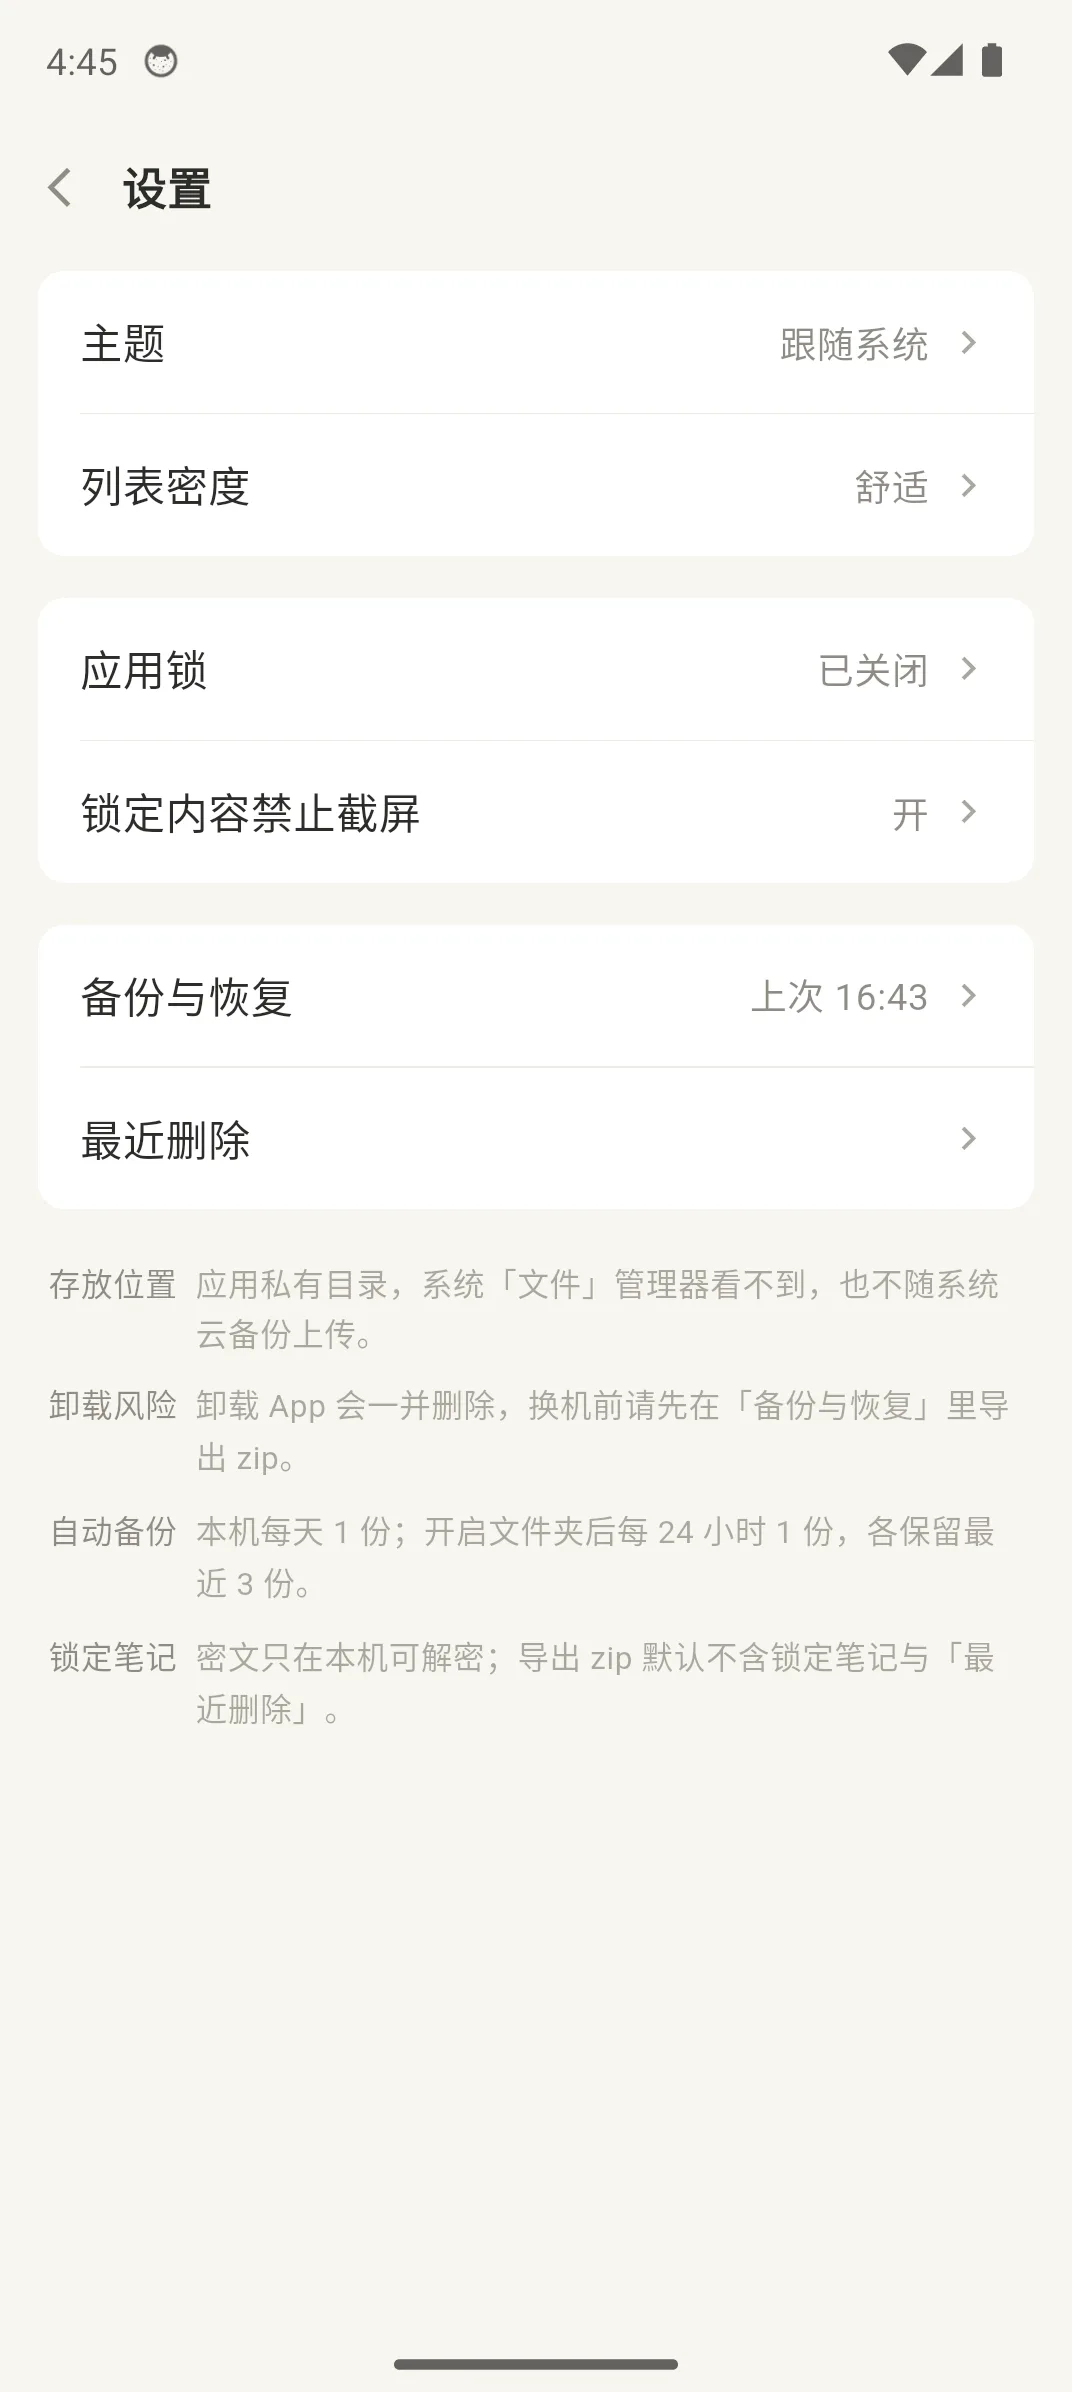
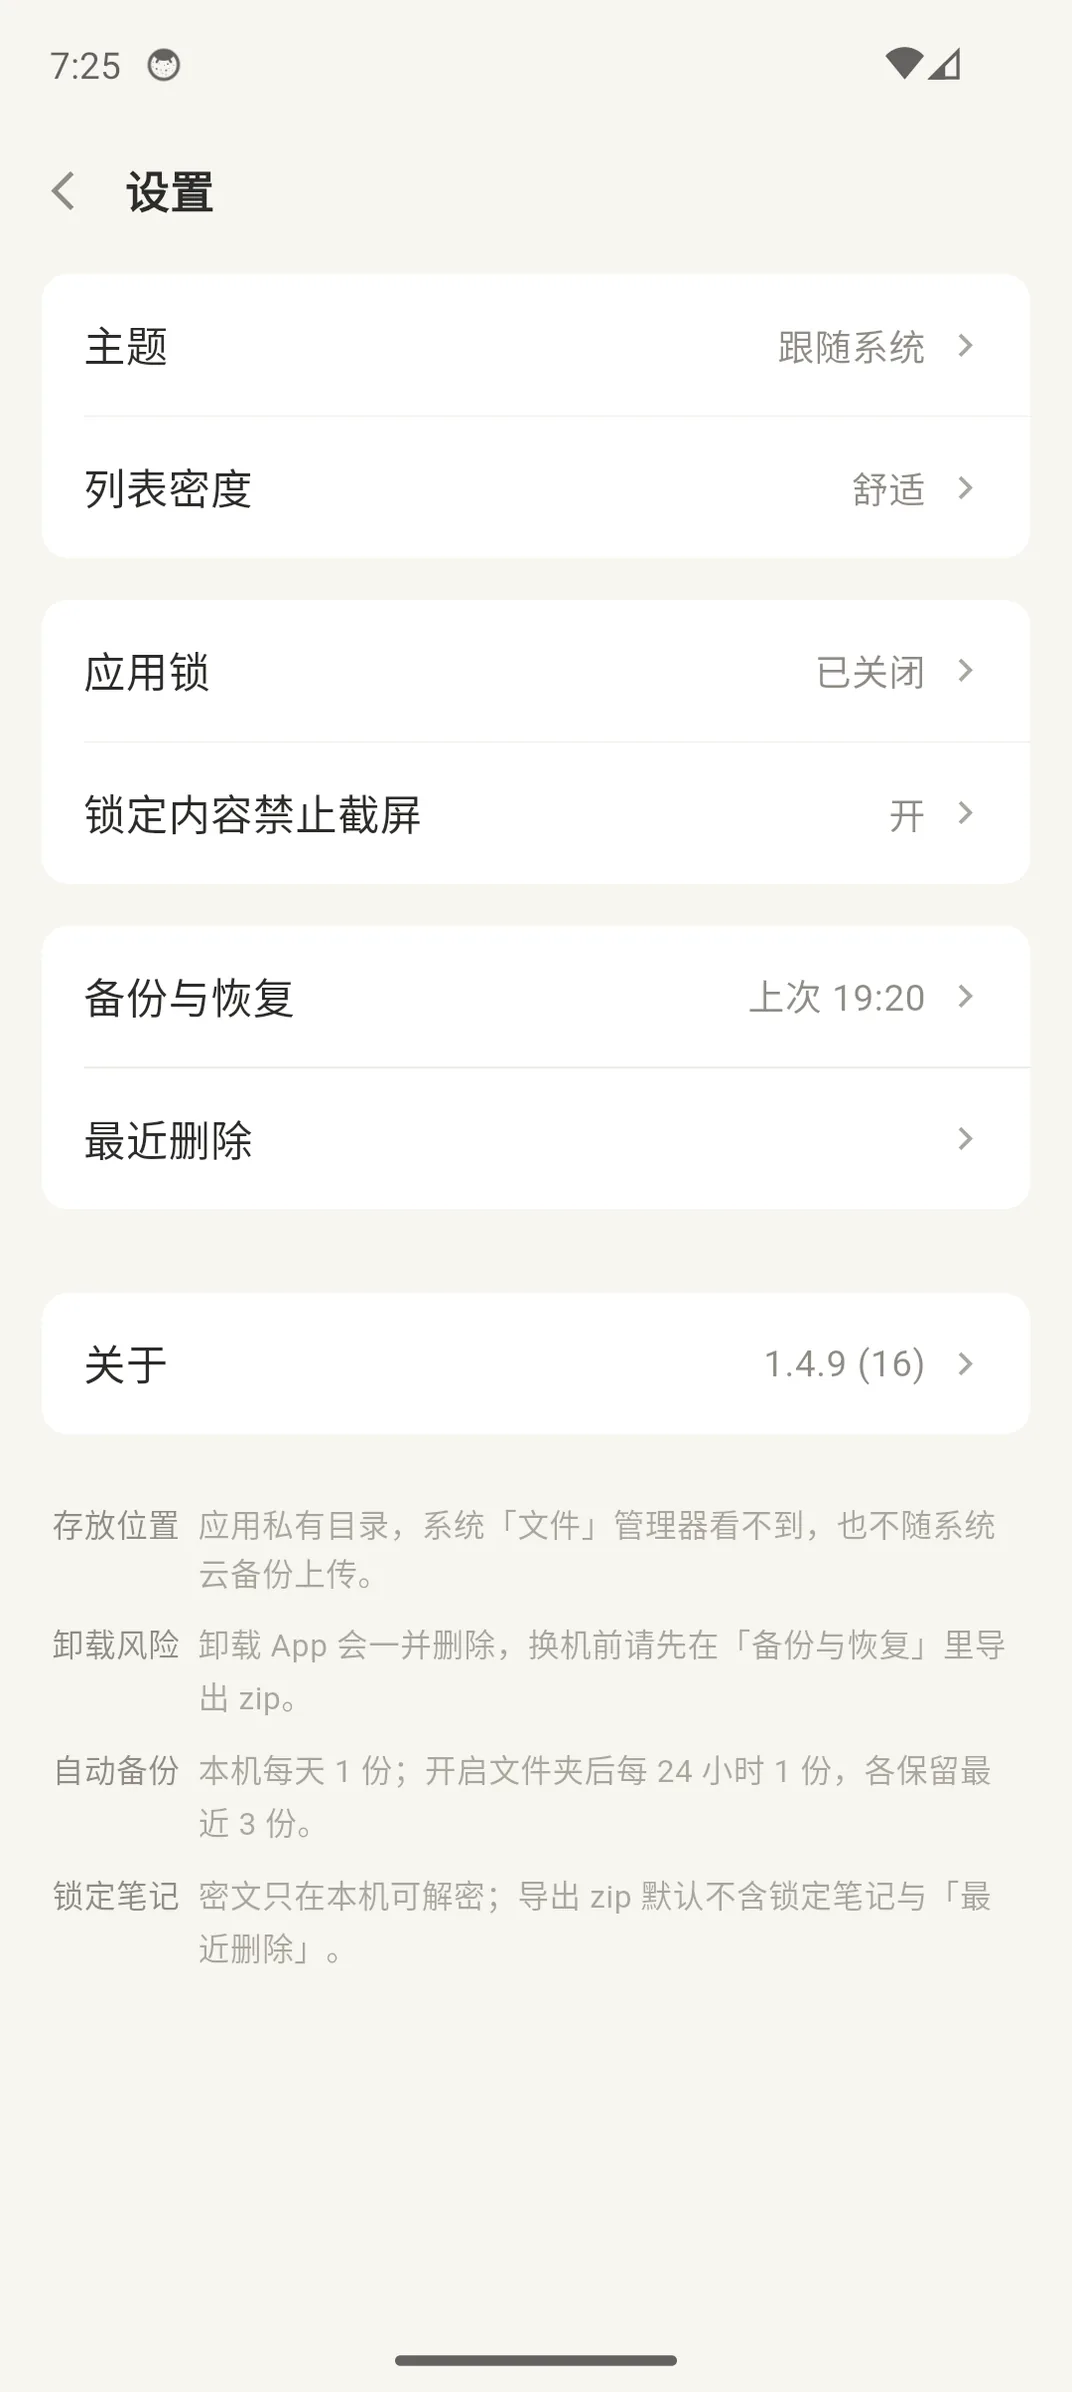
小记 1.4.9：新增关于页，小组件标题跟随壁纸深浅
版本号升到 1.4.9+16；README 与落地页同步版本、体积、功能与已知限制，
并换上新的设置页截图。

diff --git a/docs/index.html b/docs/index.html
@@ -61,8 +61,8 @@
             <a class="btn btn-ghost" href="https://github.com/oliverbuddy/private_notes" target="_blank" rel="noopener">查看源码</a>
           </div>
           <p class="hero-meta">
-            <span data-latest-version>v1.4.8</span>
-            <span data-latest-size>41.0 MB</span>
+            <span data-latest-version>v1.4.9</span>
+            <span data-latest-size>41.3 MB</span>
             <span>签名 APK</span>
           </p>
         </div>
@@ -217,9 +217,9 @@ pinned: true
             <div>
               <h2>下载小记</h2>
               <p class="download-meta">
-                <span data-latest-version>v1.4.8</span>
+                <span data-latest-version>v1.4.9</span>
                 <span data-latest-date>2026-11-06</span>
-                <span data-latest-size>41.0 MB</span>
+                <span data-latest-size>41.3 MB</span>
                 <span>Android 7.0+</span>
               </p>
             </div>
